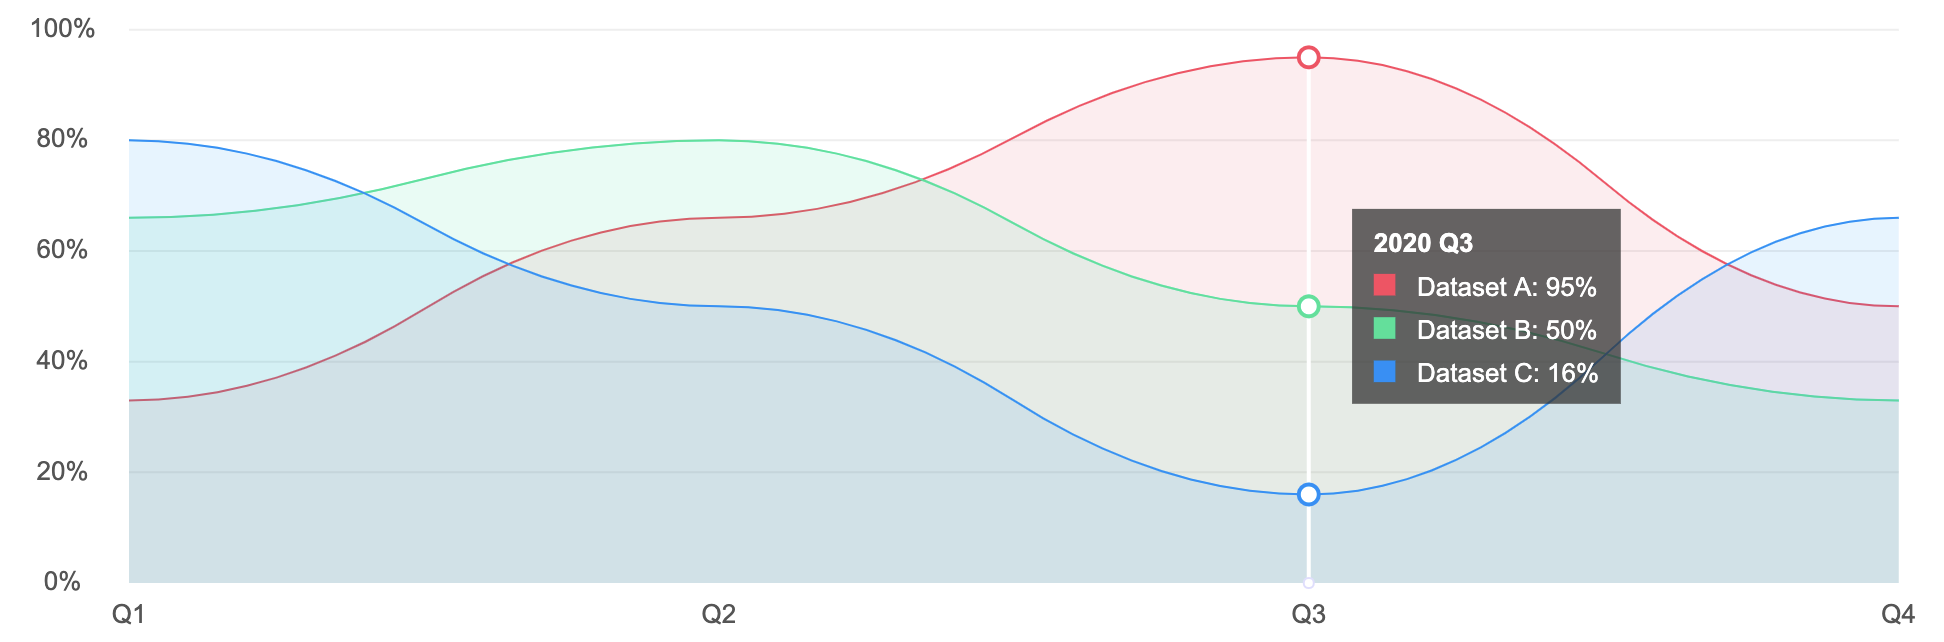
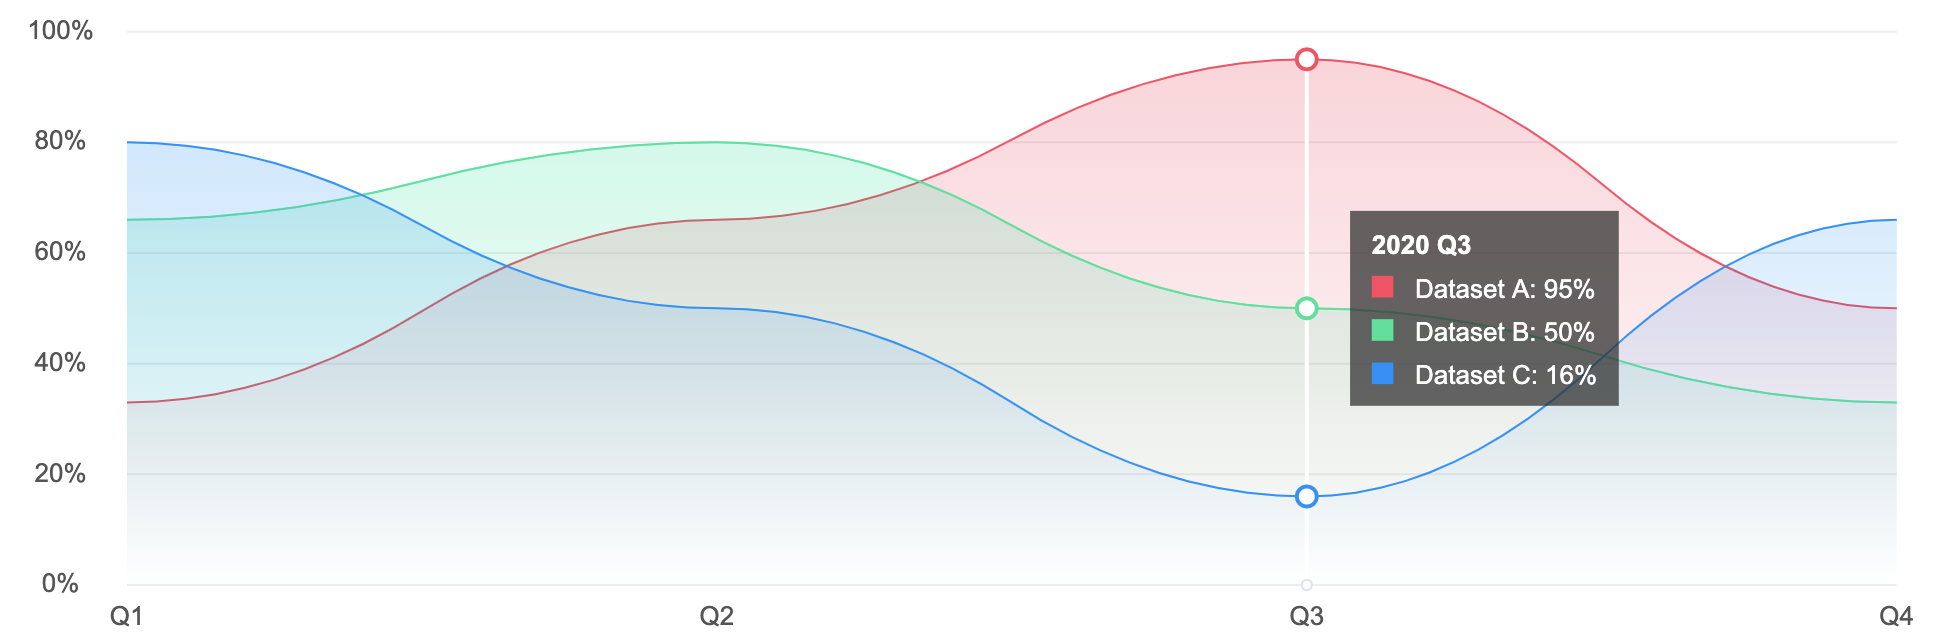
Added a gradient when drawing the area under a graph

diff --git a/src/linegraph.js b/src/linegraph.js
@@ -270,8 +270,7 @@ class GrapheneLinegraph extends GrapheneGraph {
         this.backgroundContext.beginPath();
 
         var yAxisTotalIntervals = (this.axisRangeY / this.labelIntervalY) + 1;
-        // skip drawing the first line (on the x-axis)
-        for (var i = 1; i < yAxisTotalIntervals; i++) {
+        for (var i = 0; i < yAxisTotalIntervals; i++) {
             this.backgroundContext.moveTo(0, i * this.labelIntervalY);
             this.backgroundContext.lineTo(this.calculateAxisRangeX(), i * this.labelIntervalY);
         }
@@ -281,7 +280,10 @@ class GrapheneLinegraph extends GrapheneGraph {
     }
 
     drawAreaUnderGraph(dataset, colour) {
-        this.backgroundContext.fillStyle = GrapheneHelper.hex2rgba(colour, this.alphasUnderGraph);
+        var gradient = this.backgroundContext.createLinearGradient(0, this.graphStartY, 0, this.graphEndY);
+        gradient.addColorStop(0, GrapheneHelper.hex2rgba(colour, this.alphasUnderGraph));
+        gradient.addColorStop(1, GrapheneHelper.hex2rgba(colour, 0));
+        this.backgroundContext.fillStyle = gradient;
         this.transformDrawingArea();
 
         this.backgroundContext.beginPath();

diff --git a/examples/stylesheets/test.css b/examples/stylesheets/test.css
@@ -1,6 +1,6 @@
 .graphene {
   --alphas-information-panel: 0.75;
-  --alphas-under-graph: 0.1;
+  --alphas-under-graph: 0.25;
 
   --colours-axes-labels: #555555;
   --colours-background: #FFFFFF;
